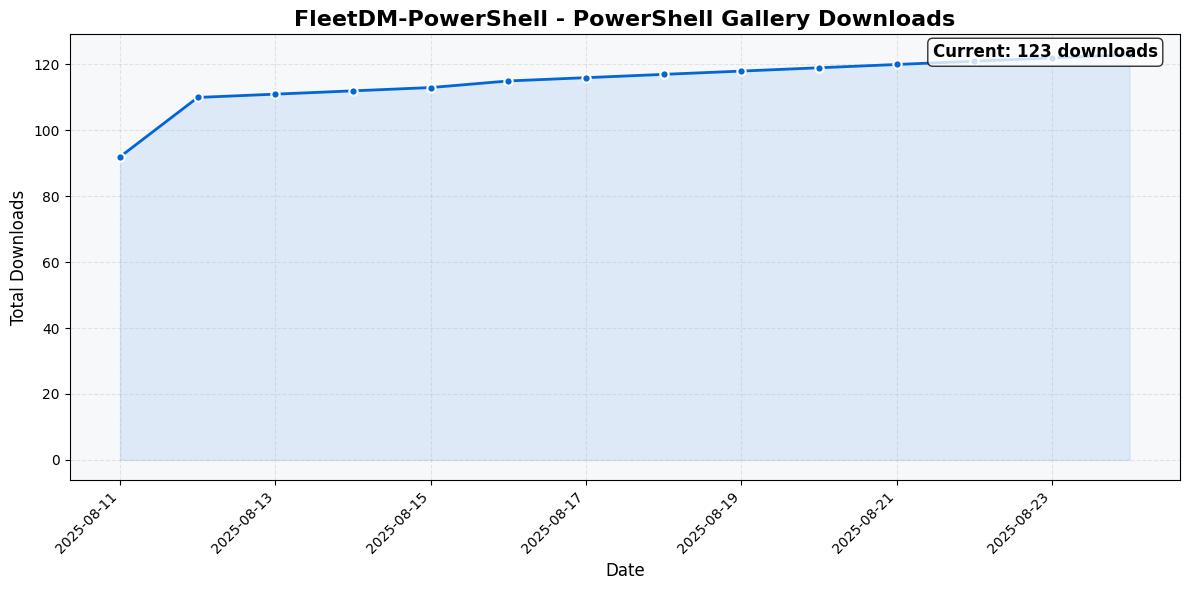
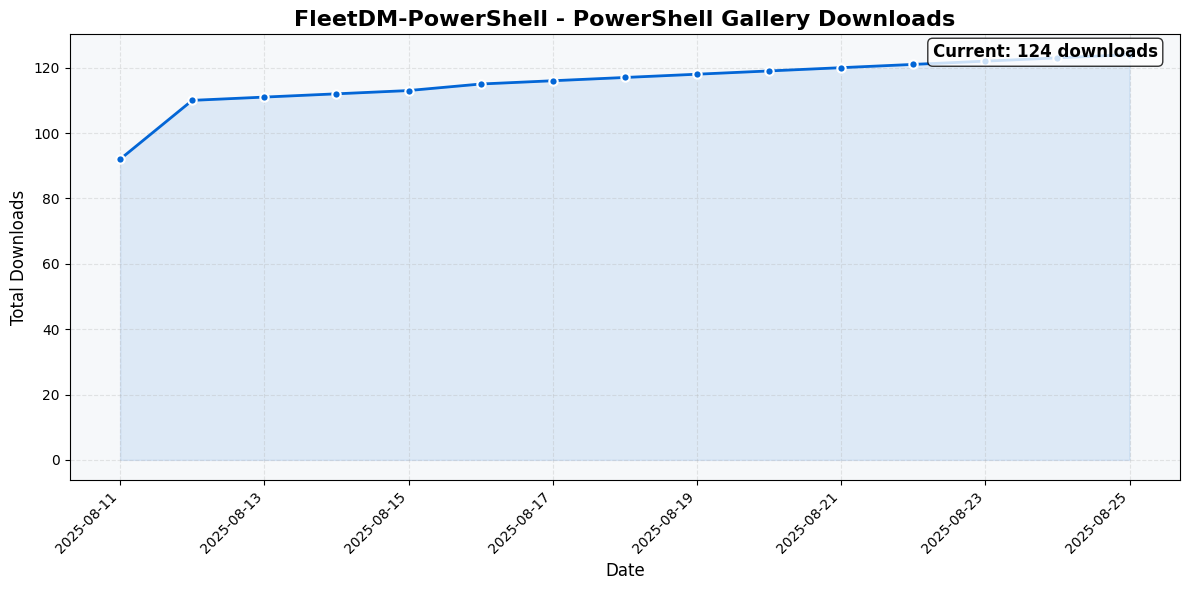
Update download statistics [skip ci]

diff --git a/download-stats.md b/download-stats.md
@@ -1,14 +1,15 @@
 ## 📊 Download Statistics
 
 **Module:** `FleetDM-PowerShell`  
-**Current Downloads:** **123**  
+**Current Downloads:** **124**  
 **Latest Version:** `2.0.1`  
-**Last Updated:** 2025-08-24
+**Last Updated:** 2025-08-25
 
 ### Recent History
 
 | Date | Downloads | Version |
 |------|-----------|---------|
+| 2025-08-25 | 124 | 2.0.1 |
 | 2025-08-24 | 123 | 2.0.1 |
 | 2025-08-23 | 122 | 2.0.1 |
 | 2025-08-22 | 121 | 2.0.1 |
@@ -18,4 +19,3 @@
 | 2025-08-18 | 117 | 2.0.1 |
 | 2025-08-17 | 116 | 2.0.1 |
 | 2025-08-16 | 115 | 2.0.1 |
-| 2025-08-15 | 113 | 2.0.1 |
